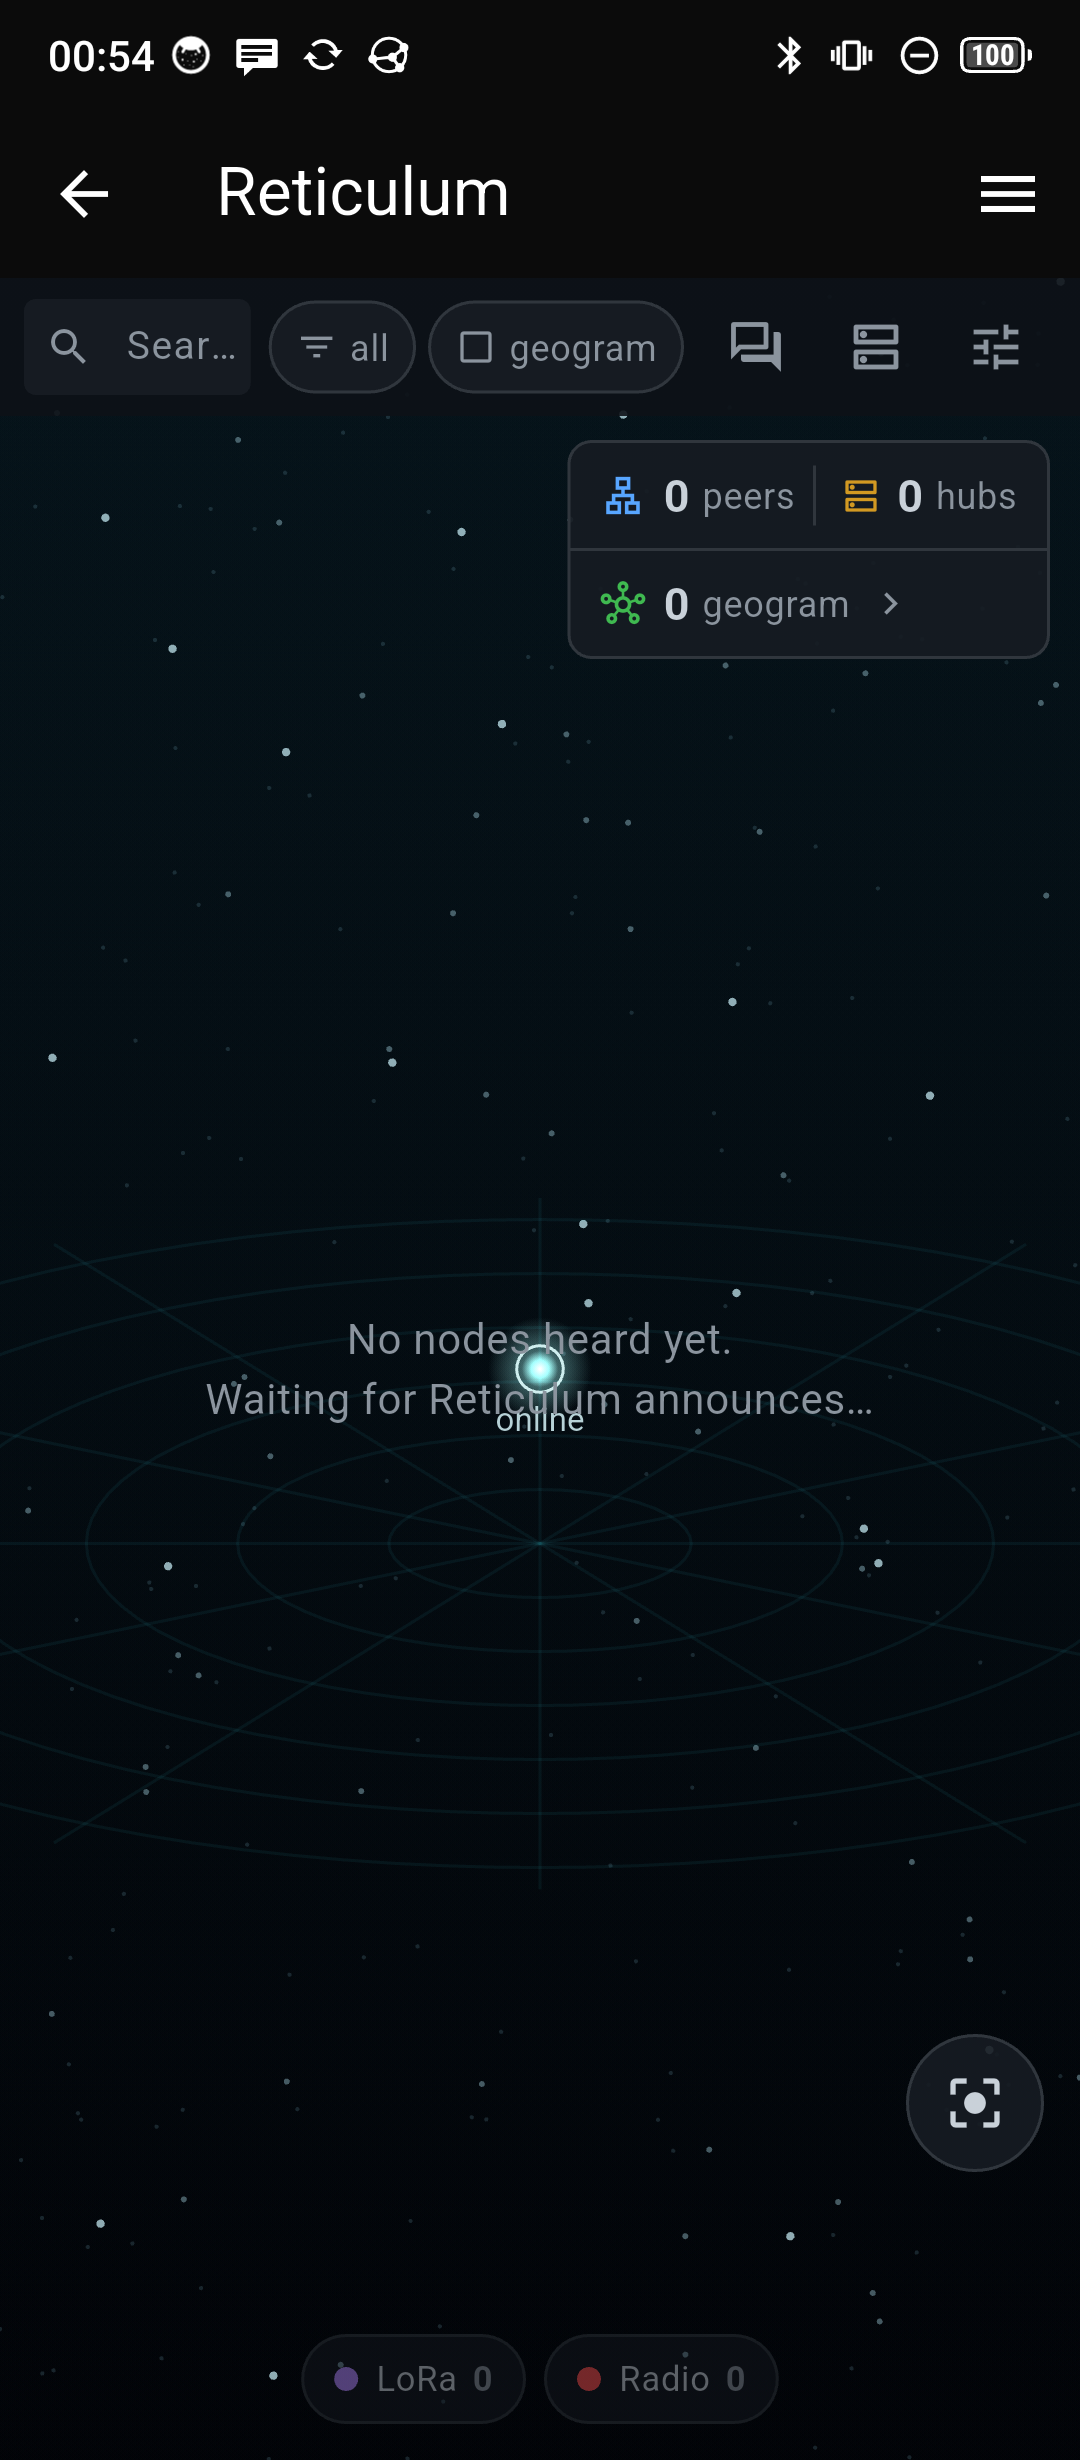
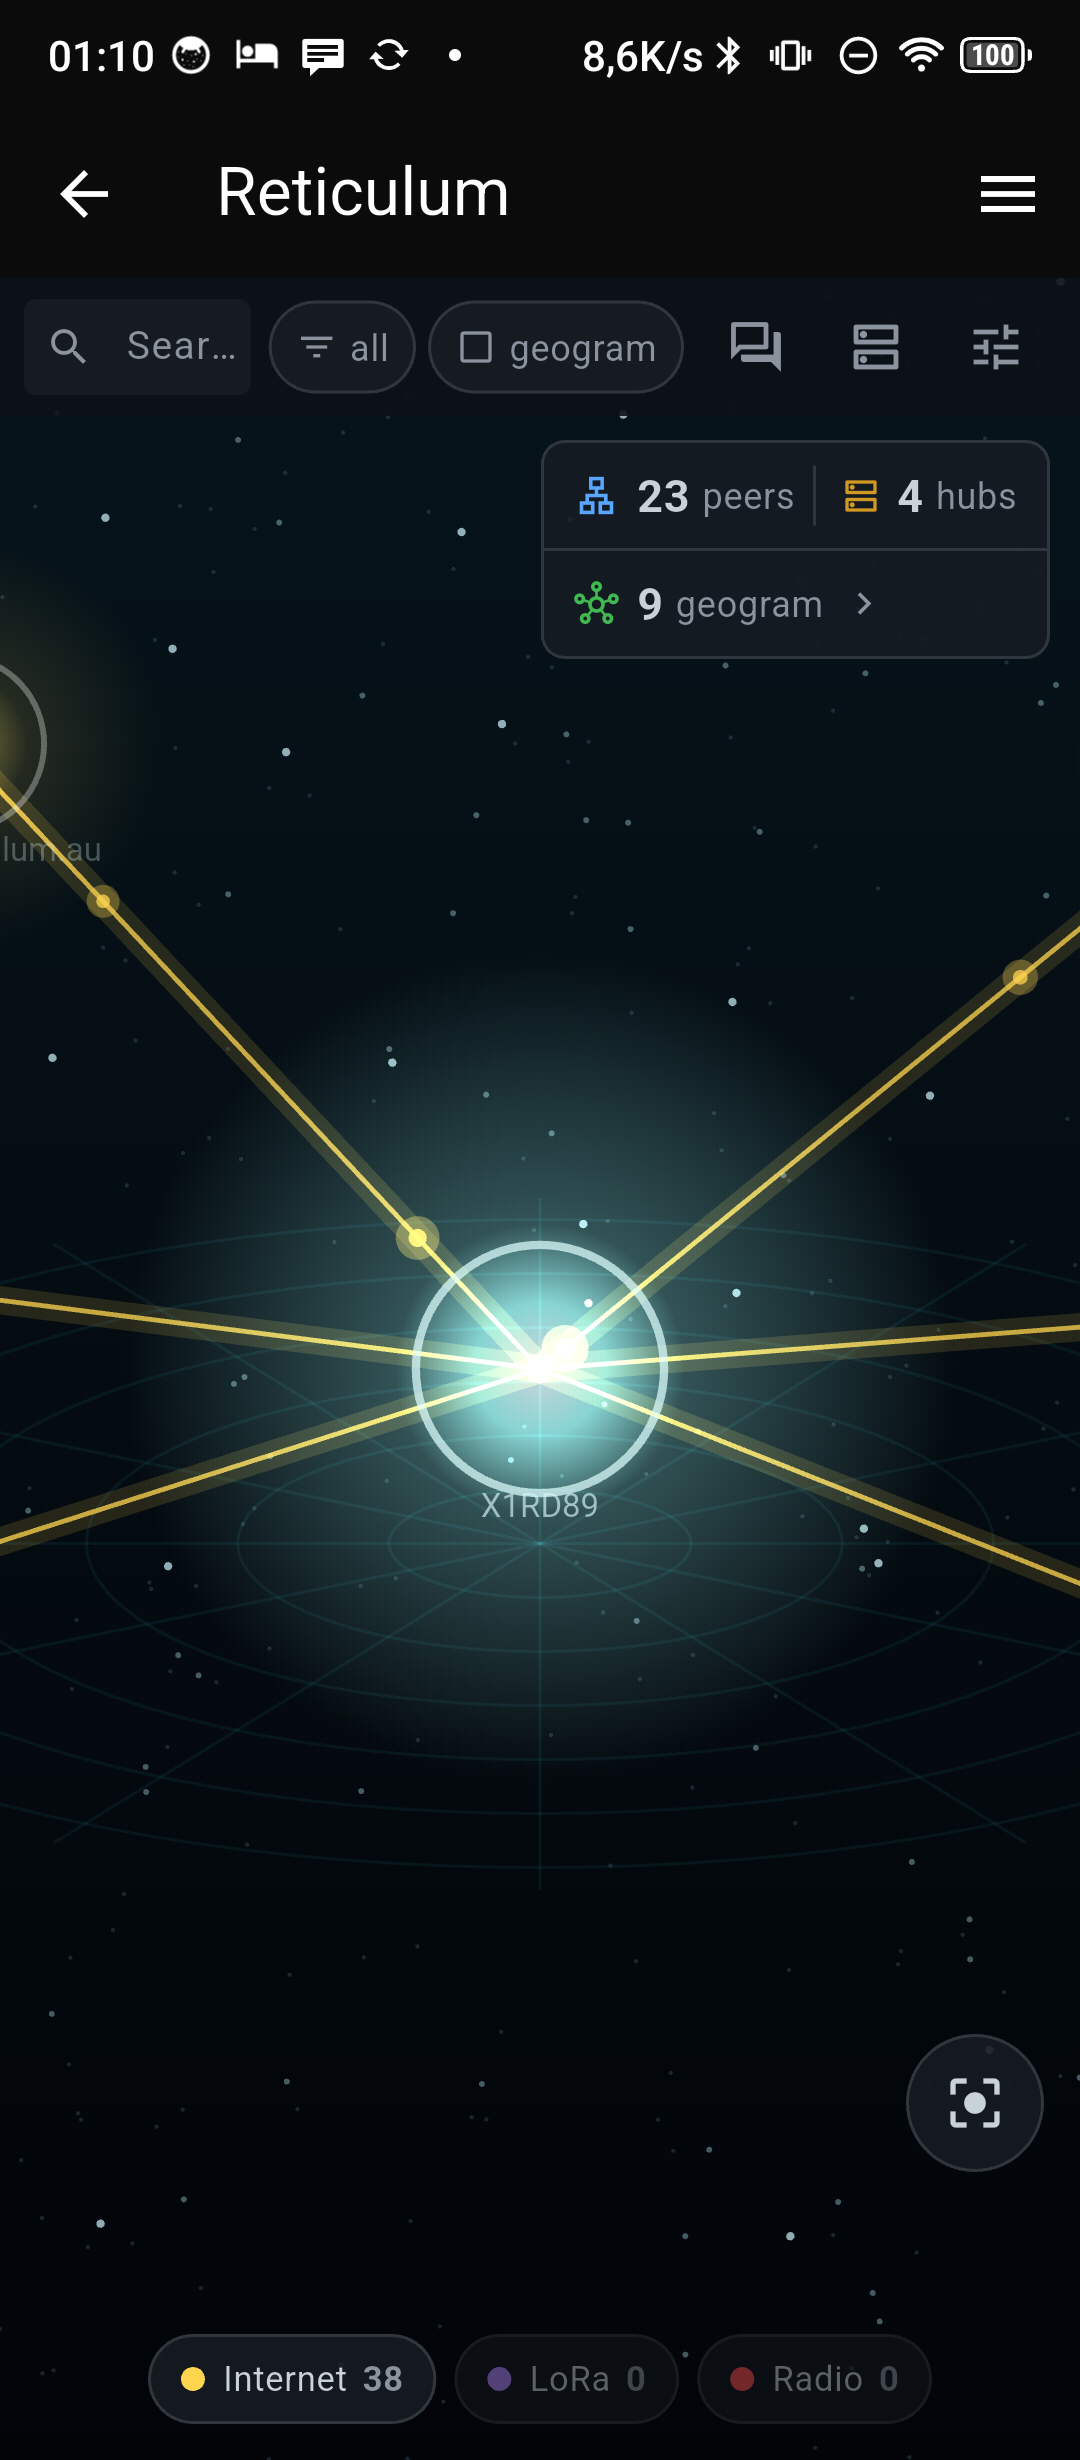
README: animated Reticulum graph, populated Social feed, drop empty/stale shots
- Reticulum section now uses an animated GIF of the live node graph (a
  selected node glowing with radiating hub edges) and a populated starburst
  static (23 peers / 9 geograms) instead of the empty radar.
- Social uses a real populated feed (posts, avatars, media, engagement).
- Drop the empty torrent Popularity screenshot (no month history to show yet).
- Remove the seven stale APRS-era Chat screenshots (01-07) that no longer
  apply.

diff --git a/README.md b/README.md
@@ -101,7 +101,7 @@ your own key.
 ### 🛰️ Reticulum — see the mesh
 
 <p align="center">
-  <img src="docs/screenshots/reticulum-graph.png" width="260" alt="Reticulum: native node radar with peers, hubs, LoRa/Radio">
+  <img src="docs/screenshots/reticulum-graph.gif" width="260" alt="Reticulum: live animated node graph">
 </p>
 
 A native, off-thread visualization of the Reticulum network as your device hears
@@ -115,9 +115,8 @@ what announces have reached this node.
 ### ⬇️ Torrents — folders that live on the mesh
 
 <p align="center">
-  <img src="docs/screenshots/torrents-list.png" width="240" alt="Torrents: library list">
-  <img src="docs/screenshots/torrents-info.png" width="240" alt="Torrents: listing / info page">
-  <img src="docs/screenshots/torrents-popularity.png" width="240" alt="Torrents: popularity over months">
+  <img src="docs/screenshots/torrents-list.png" width="260" alt="Torrents: library list">
+  <img src="docs/screenshots/torrents-info.png" width="260" alt="Torrents: listing / info page">
 </p>
 
 A torrent client whose unit of sharing is a **folder**, addressed by a key